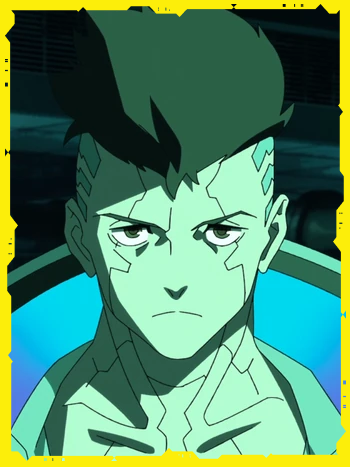
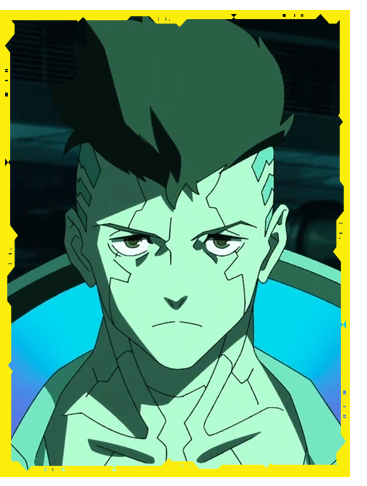
Commit Trystan Page Choix personnage

diff --git a/assets/css/style_choix_perso.css b/assets/css/style_choix_perso.css
@@ -11,17 +11,17 @@ background-size: cover;
 margin: 0; 
 color: white;
 font-family: 'Cyberpunks';
-overflow-y: hidden;
+/* overflow-y: hidden; */
 overflow-x: hidden;
 }
 
-.img_header{
+.img_header img{
     width: 100vw;
 }
 
-.img_footer{
+.img_footer img{
     width: 100vw;
-    padding-top: 1%;
+    padding-top: 10vh;
 }
 h2{
     font-family: 'Cyberpunks';
@@ -36,6 +36,7 @@ h2{
 .choose{
     display: flex;
     justify-content: center;
+    letter-spacing: .3em;
 }
 
 .perso1{
@@ -54,7 +55,8 @@ h2{
     display: flex;
     justify-content: center;
     font-size: 32px;
-    margin : 0
+    margin : 0;
+    letter-spacing: .3em;
 }
 
 .perso1:hover{
@@ -69,4 +71,34 @@ h2{
     scale: 1.1;
     transition: 0.2s ease-in-out;
 
+}
+.music{
+    display: flex;
+    justify-content: center;
+}
+
+audio::-webkit-media-controls-panel {
+    background-color: #FCEE0A;
+}
+
+audio::-webkit-media-controls-current-time-display {
+    font-family: 'Cyberpunks', Arial, Helvetica, sans-serif;
+ }
+ 
+ audio::-webkit-media-controls-time-remaining-display {
+     font-family: 'Cyberpunks', Arial, Helvetica, sans-serif;;
+ }
+
+::-webkit-scrollbar {
+    width: .7vw;
+    height: 3.3vh;
+}
+
+::-webkit-scrollbar-track {
+    background-color: black;
+    box-shadow: inset 0 0 6px rgba(0, 0, 0, 0.3);
+}
+
+::-webkit-scrollbar-thumb {
+    background-color: #02D8F3;
 }

diff --git a/assets/css/mediaquerries_choix_perso.css b/assets/css/mediaquerries_choix_perso.css
@@ -1,0 +1,61 @@
+@media screen and (max-width : 1024px) {
+    body{
+        background-repeat: no-repeat;
+        height: 100vh;
+        overflow-y: hidden;
+    }
+    .img_header img{
+        width: 100%;
+    }
+
+    .img_footer img{
+        width: 100%;
+    }
+
+    .header_img img{
+        height: 3vh;
+    }
+
+    .logo img{
+        height: 15vh;
+    }
+    
+    .img_perso{
+        display: flex;
+        justify-content: center;
+        align-items: center;
+
+    }
+
+    .img_perso {
+        /* width: 70%; */
+        display: flex;
+        justify-content: center;
+        align-items: center;
+        margin-bottom: 25vh;
+    }
+
+    .img_perso img{
+        width: 70%;
+    }
+
+    .perso1 {
+        display: flex;
+        justify-content: center;
+        align-items: center;
+        flex-direction: column;
+    }
+
+    .perso2 {
+        display: flex;
+        justify-content: center;
+        align-items: center;
+        flex-direction: column;
+    }
+    .choose {
+        margin-bottom: 5vh;
+    }
+
+
+
+}

diff --git a/index_choix_perso.html b/index_choix_perso.html
@@ -4,7 +4,8 @@
     <meta charset="UTF-8">
     <meta http-equiv="X-UA-Compatible" content="IE=edge">
     <meta name="viewport" content="width=device-width, initial-scale=1.0">
-    <link href="/assets/css/style.css" rel="stylesheet" type="text/css">
+    <link href="/assets/css/style_choix_perso.css" rel="stylesheet" type="text/css">
+    <link href="/assets/css/mediaquerries_choix_perso.css" rel="stylesheet" type="text/css">
     <link rel="preconnect" href="/assets/img/Cyberpunks.ttf">
     <title>Document</title>
 </head>
@@ -48,17 +49,19 @@
             </div>
 
         </div>
-    </main>
-
-    <footer>
-
+        <div class="music">
+              <audio
+                src="./assets/music/Rosa-Walton-Hallie.mp3"
+                controls
+              ></audio>
+        </div>
+        
         <div class="img_footer">
 
             <img src="/assets/img/razor-bottom-yellow-7dbbe9ac (1) 3.webp" alt="footer">
-
+    
         </div>
-
-    </footer>
+    </main>
 
 </body>
 </html>
